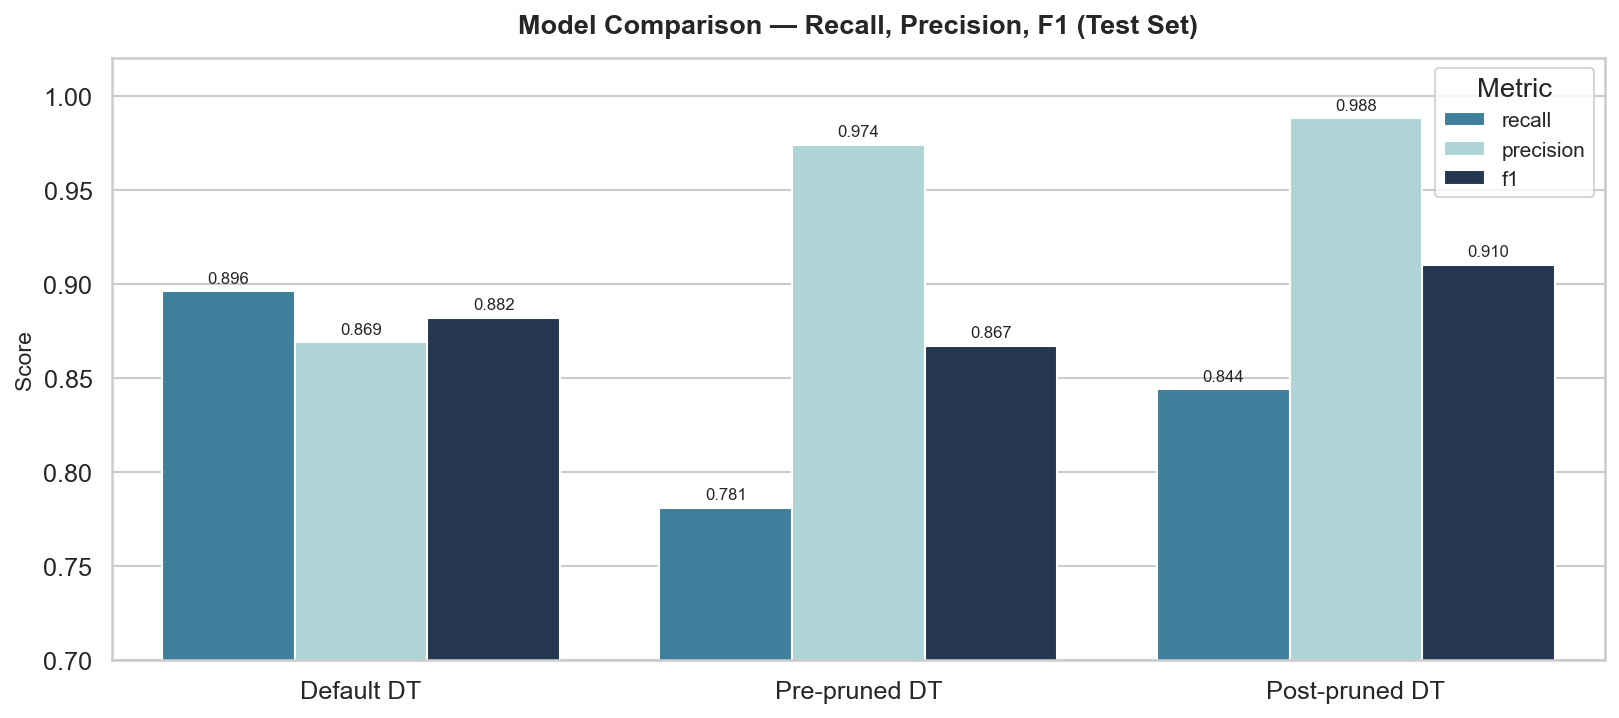
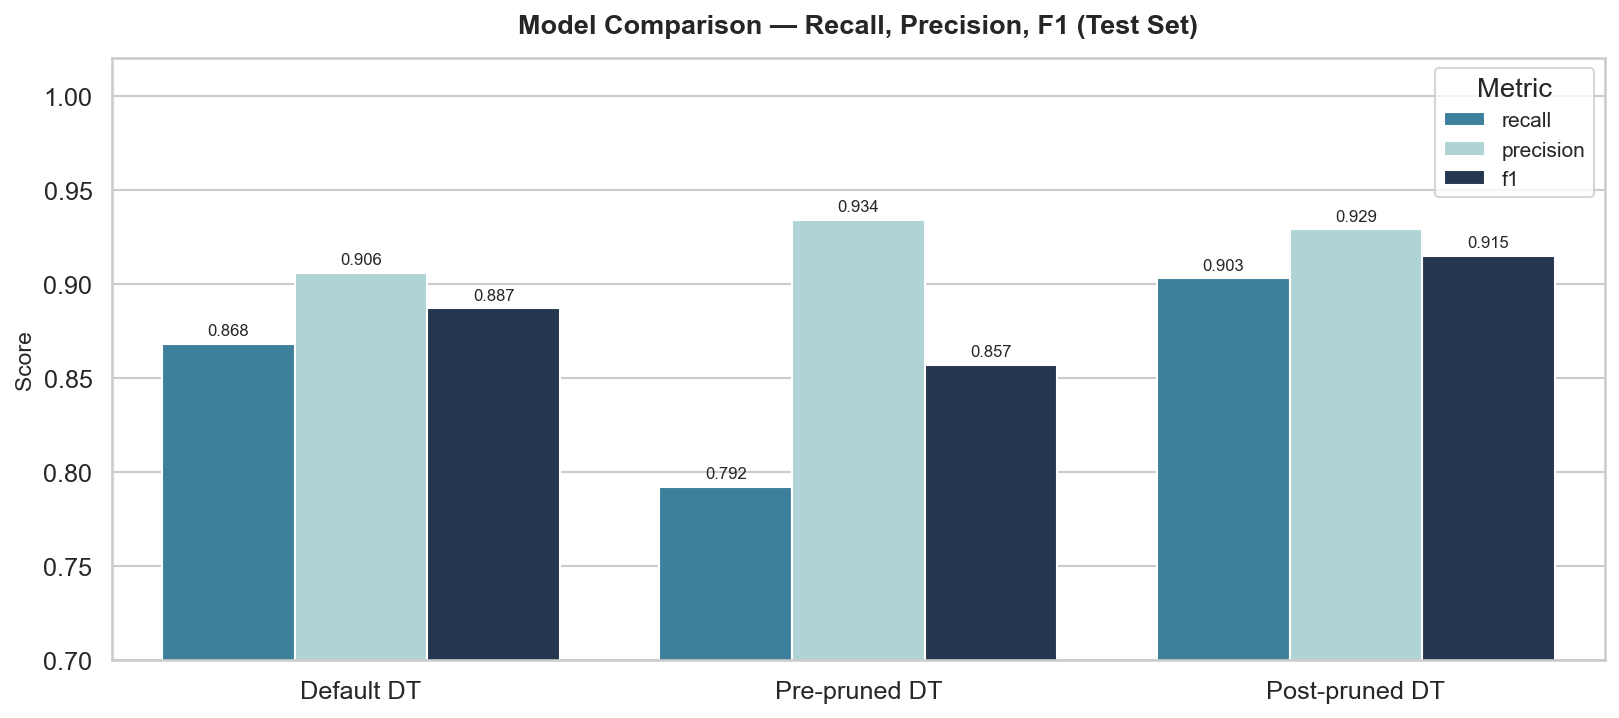
Fix preprocessing to match original: 70/30 split, ZIPCode truncation + dummies, Education encoding

diff --git a/src/preprocess.py b/src/preprocess.py
@@ -7,12 +7,17 @@ def load_data(path: str) -> pd.DataFrame:
 
 
 def clean_data(df: pd.DataFrame) -> pd.DataFrame:
-    df = df.drop(columns=["ID", "ZIPCode"])
+    df = df.drop(columns=["ID"])
     df["Experience"] = df["Experience"].clip(lower=0)
+    # Truncate ZIPCode to 2-digit prefix then one-hot encode
+    df["ZIPCode"] = df["ZIPCode"].astype(str).str[:2]
+    # Education: integer → string labels then one-hot encode
+    df["Education"] = df["Education"].replace({1: "Undergrad", 2: "Graduate", 3: "Advanced_Professional"})
+    df = pd.get_dummies(df, columns=["ZIPCode", "Education"], dtype=int, drop_first=True)
     return df.reset_index(drop=True)
 
 
-def prepare_features(df: pd.DataFrame, test_size: float = 0.2, random_state: int = 1):
+def prepare_features(df: pd.DataFrame, test_size: float = 0.30, random_state: int = 1):
     X = df.drop(columns=["Personal_Loan"])
     y = df["Personal_Loan"]
     return train_test_split(X, y, test_size=test_size, stratify=y, random_state=random_state)

diff --git a/src/train.py b/src/train.py
@@ -30,7 +30,7 @@ def train_prepruned_dt(X_train, y_train) -> DecisionTreeClassifier:
 
 def train_postpruned_dt(X_train, y_train, X_test, y_test) -> DecisionTreeClassifier:
     path = DecisionTreeClassifier(random_state=1).cost_complexity_pruning_path(X_train, y_train)
-    alphas = path.ccp_alphas[:-1]  # exclude trivial last alpha (single leaf)
+    alphas = abs(path.ccp_alphas[:-1])  # exclude trivial last alpha (single leaf)
 
     best_alpha, best_f1 = 0.0, 0.0
     for alpha in alphas: